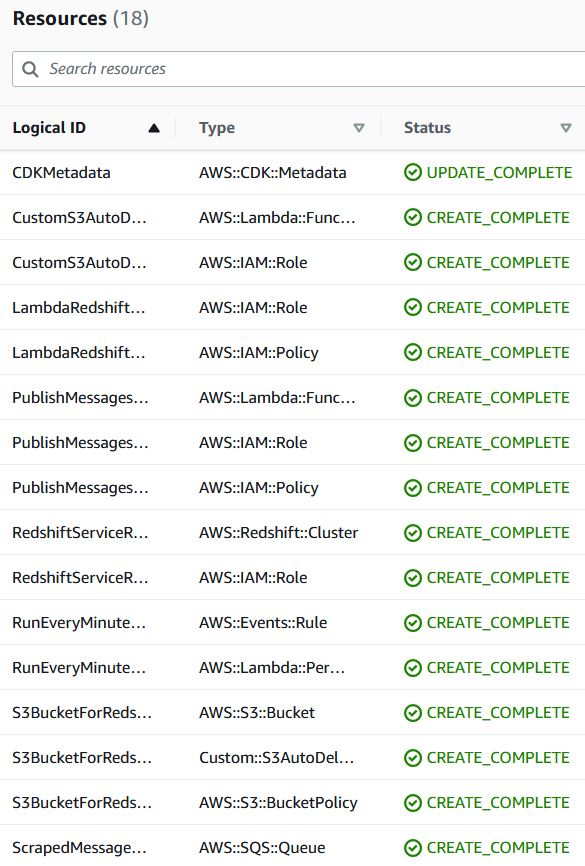
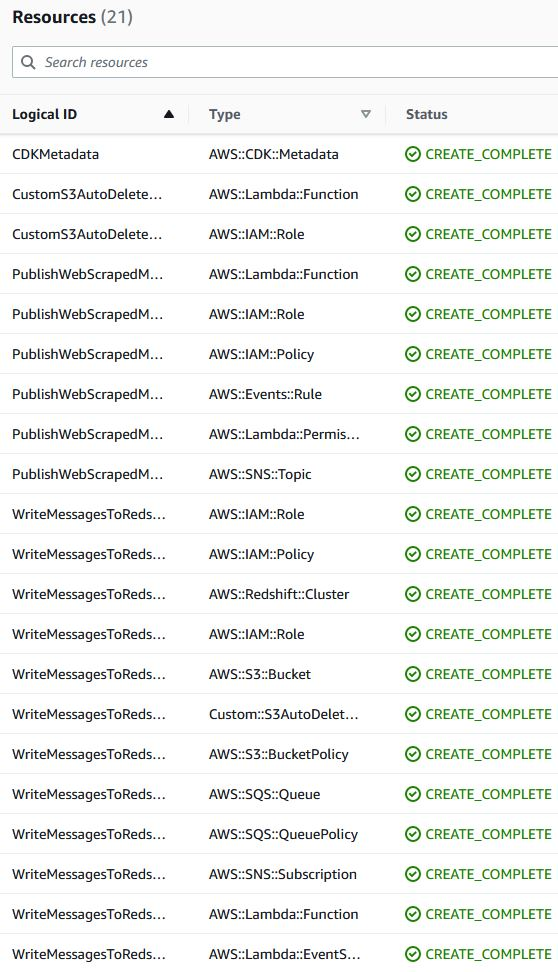
updated README and pics for SNS topic before SQS queue

diff --git a/README.md b/README.md
@@ -5,11 +5,11 @@ Suppose you are ingesting large amounts of data for ad hoc analysis on a SQL dat
 
 # Architecture
 <p align="center"><img src="arch_diagram.jpg" width="800"></p>
-The architecture diagram looks quick intense. The core idea is quite simple: there is the service publishing data to a SQS queue (emulating the web scraping) and there is a service that uploads data to the Redshift data warehouse. Here are the moving parts:
+The architecture diagram looks quick intense. The core idea is quite simple: there is the service publishing data to a SNS topic (emulating the web scraping) and there is a service that uploads data to the Redshift data warehouse. Here are the moving parts:
 
-* Every 1 minute, Eventbridge triggers a Lambda to load `telegram.csv` from `data-engineering-bezant-assignement-dataset.zip` in pandas DataFrame, randomly select between 1 to 1000 rows, and publish that data to a SQS queue. The purpose is to emulate the result of the web scraping process.
-* The SQS queue triggers a Lambda that writes that data to a S3 bucket, calls the Redshift API via `boto3` such that Redshift loads that S3 file to a table, and then the Lambda renames that S3 file where the bucket policy will expire and delete that file after 1 day. The retention of the S3 file (instead of immediate deletion) is for debugging if something anomalous happens, you can look into the S3 file and cross reference if that data was successfully loaded in to Redshift.
-* For observability, you can inspect the Lambda's Cloudwatch logs: runtime duration, failures, and count of endpoint hits. If you are fancy, you can add metrics & alarms to the Lambda (and API Gateway). For the business/operations/SRE team, you can add New Relic to the Lambda such that there will be "single pane of glass" for 24/7 monitoring. You can also inspect the API Gateway's dashboard.
+* Every 1 minute, Eventbridge triggers a Lambda to load `telegram.csv` from `data-engineering-bezant-assignement-dataset.zip` in pandas DataFrame, randomly selects between 1 to 1000 rows, and publishes that data to a SNS topic. The purpose is to emulate the publishing of web scraped messages in a way that allows fan-out to multiple subscribers/consumers.
+* There is currently 1 subscriber, which is a SQS queue that triggers a Lambda. The Lambda writes the data (representing web scraped messages) to a S3 bucket, calls the Redshift API via `boto3` such that Redshift loads that S3 file to a table, and then the Lambda renames that S3 file where the bucket policy will expire and delete that file after 1 day. The retention of the S3 file (instead of immediate deletion) is for debugging if something anomalous happens; you can look into the S3 file and cross reference if that data was successfully loaded in to Redshift.
+* For observability, you can inspect the Lambda's Cloudwatch logs: runtime duration, failures, etc. If you are fancy, you can add metrics & alarms to the Lambda (and API Gateway). For the business/operations/SRE team, you can add New Relic to the Lambda such that there will be "single pane of glass" for 24/7 monitoring.
 
 
 ## Miscellaneous details:
@@ -17,6 +17,7 @@ The architecture diagram looks quick intense. The core idea is quite simple: the
 * The following is the AWS resources deployed by CDK and thus Cloudformation. A summary would be: <p align="center"><img src="AWS_resources.jpg" width="500"></p>
     * 1 Eventbridge rule
     * 2 Lambda functions
+    * 1 SNS topic
     * 1 SQS queue
     * 1 S3 bucket
     * 1 Redshift cluster
@@ -26,12 +27,12 @@ The architecture diagram looks quick intense. The core idea is quite simple: the
 
 
 # Learnings
-There were certain challenges with the data. For example, the `reply_message_id` column is supposed to be an integer but my Redshift table defined it as a float. The reason is that pandas saw NULLs in that column and thus cast it to float. Also `message_timestamp` and `processing_time` are timestamps, but I defined the table columns as VARCHAR for expendiency's sake. `message_content` had a large spread on the length of the message. There were many "messages" that had 0 length. The largest message had over 4,000 characters, so I arbitrarily defined the table column to be VARCHAR(5000). In the case of a message larger than that, my Lambda would fail to run. A simple fix is to truncate the message to 5000 characters. Another possibility is to wait and see for the failures. The failed message would eventually be moved from the main queue to the DLQ, so you can inspect it.
+There were certain challenges with the data. For example, the `reply_message_id` column is supposed to be an integer but my Redshift table defined it as a float. The reason is that pandas saw NULLs in that column and thus cast it to float. Also `message_timestamp` and `processing_time` are timestamps, but I defined the table columns as VARCHAR for expendiency's sake. `message_content` had a large spread on the length of the message; there were many "messages" that had 0 length. The largest message had over 4,000 characters, so I arbitrarily defined the table column to be VARCHAR(5000). In the case of a message larger than that, my Lambda would fail to run. A simple fix is to truncate the message to 5000 characters. Another possibility is to wait and see for the failures such as in a try/except construct and print out the failing message.
 Since storage is cheap, you can consider retaining all the web scraped data and save it to files in S3 Glacier or S3 Intelligent tiering rather than deleting the data. 1 GB costs about 1 cent per month on S3 Infrequent access, so 100 GB is $1/month. 1 Terabyte is $10/month.
 
 Given more time, I would have opted to go full serverless. The only "server-ful" component of my architecture is the Redshift cluster. However Redshift also offers the serverless variant. Hence this architecture can be modified to be entirely serverless, pay-as-you-go instead of pay-for-being-turned on.
 
-To integrate with a full ML learning system, I would give the quant/data scientist an AWS Sagemaker notebook instance where he can pull data from Redshift and run ad hoc queries and test hypotheses. If he is building ML models, then he can deploy to Sagemaker endpoint he can due rapid real-time inferences or bulk, batch inferencing. This is architecture implements the OLAP database. If you also want the OLTP database (such as RDS/DynamoDB/insert_your_favorite_database), then I would have my web scraper publish to a SNS topic and fan out by having multiple subscribers. Then each subscriber can parallelize ingest data to its respective database.
+To integrate with a full ML learning system, I would give the quant/data scientist an AWS Sagemaker notebook instance where he can pull data from Redshift and run ad hoc queries and test hypotheses. If he is building ML models, then he can deploy to a Sagemaker endpoint where he can do rapid real-time inferences or bulk/batch inferencing. This architecture implements the OLAP database. If you also want the OLTP database (such as RDS/DynamoDB/insert_your_favorite_database), then simply attach another subscriber to the SNS topic. Then each subscriber can parallelize data ingest to its respective database.
 
 
 # Deploying the Microservice Yourself
